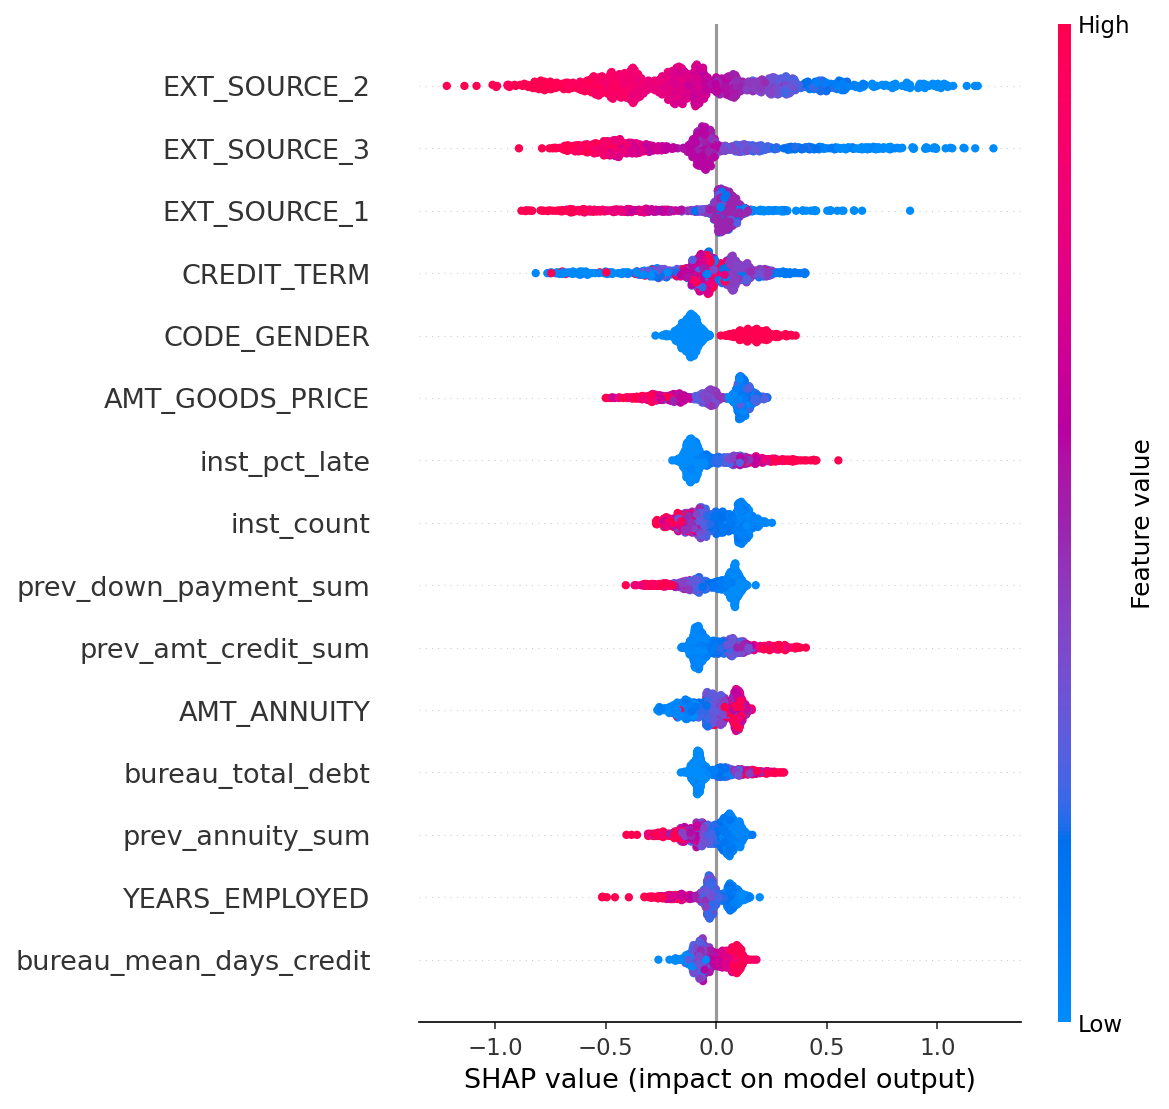
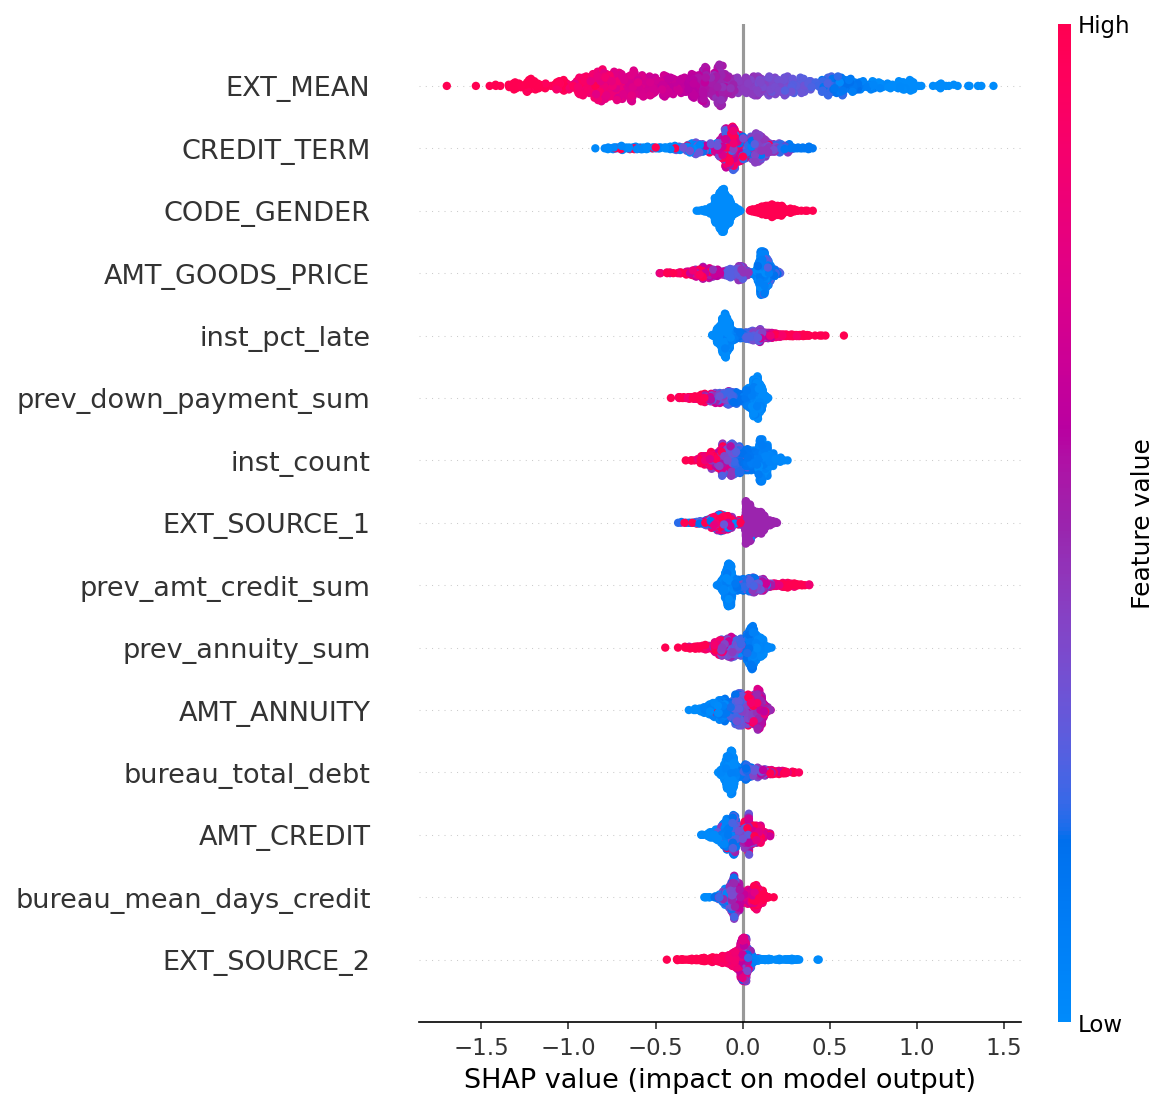
Update README.md to reflect changes in the project architecture, including the transition to a FastAPI scoring API and adjustments to the Streamlit dashboard. Revise model performance metrics and installation instructions for clarity. Remove CI workflow file as part of project simplification. Update

diff --git a/README.md b/README.md
@@ -4,7 +4,7 @@
 
 A production-style credit risk scoring system built on the [Kaggle Home Credit Default Risk](https://www.kaggle.com/competitions/home-credit-default-risk/data) dataset (~300,000 applicants). Three ML models are trained and compared head-to-head. A SHAP explainability layer shows exactly which factors drove each prediction. A business rules engine enforces hard policy caps on top of the model output — mirroring how real credit scoring systems work at lenders and bureaus.
 
-Results are exposed through an interactive Streamlit dashboard where you can adjust any applicant input and see the score, explanation, and any triggered policy rules update instantly.
+The model is served by a FastAPI scoring API. A Streamlit dashboard calls that API, so you can adjust any applicant input and see the score, explanation, and any triggered policy rules update instantly. GitHub Actions runs lint and 30 tests on every push.
 
 ---
 
@@ -14,11 +14,11 @@ Evaluated on a held-out 20% test set. Thresholds are tuned per model to maximise
 
 | Model | ROC-AUC | F1 | Precision | Recall |
 |---|---|---|---|---|
-| XGBoost | 0.7784 | 0.3333 | 0.2861 | 0.3992 |
-| Logistic Regression | 0.7573 | 0.3051 | 0.2324 | 0.4439 |
-| Random Forest | 0.7404 | 0.2915 | 0.2451 | 0.3595 |
+| XGBoost | 0.7789 | 0.3314 | 0.2774 | 0.4115 |
+| Logistic Regression | 0.7573 | 0.3052 | 0.2362 | 0.4312 |
+| Random Forest | 0.7434 | 0.2963 | 0.2203 | 0.4522 |
 
-ROC-AUC of 0.778 means the model correctly ranks a random defaulter as riskier than a random non-defaulter 77.8% of the time. Top Kaggle scores on this competition are ~0.80.
+ROC-AUC of 0.779 means the model correctly ranks a random defaulter as riskier than a random non-defaulter 77.9% of the time. Top Kaggle scores on this competition are ~0.80.
 
 ---
 
@@ -36,10 +36,12 @@ data/
                                     src/explain.py ──▶ outputs/shap_*.png
                                            │
                                            ▼
-                                        app.py ──▶ Streamlit dashboard
-                                   (model score +        (risk score,
-                                    guardrails layer +    SHAP waterfall,
-                                    SHAP waterfall)       policy alerts)
+                              api.py (FastAPI, POST /predict)
+                          model score + guardrails + top SHAP reasons
+                                           │  HTTP
+                                           ▼
+                              app.py (Streamlit dashboard)
+                        sidebar inputs, score, SHAP waterfall, policy alerts
 ```
 
 ---
@@ -51,11 +53,14 @@ data/
 | `src/data_prep.py` | Loads up to 5 CSV tables, joins on applicant ID, cleans anomalies, encodes categoricals, engineers ratio and interaction features, splits train/test |
 | `src/train.py` | Trains XGBoost, Random Forest, Logistic Regression; tunes decision thresholds; saves model files and metrics |
 | `src/explain.py` | Computes SHAP values on XGBoost; saves global summary and per-applicant waterfall charts |
-| `app.py` | Streamlit app — sidebar inputs → model score → guardrails layer → SHAP explanation + policy alerts |
-| `tests/` | Pytest unit tests for all modules using synthetic data (no real CSVs required) |
+| `src/score.py`, `src/applicant.py` | Turn API input into model features, score with XGBoost, apply guardrails, pick top SHAP reasons |
+| `src/guardrails.py` | Business rules engine (policy caps) |
+| `api.py` | FastAPI service — `GET /health`, `POST /predict` with input validation |
+| `app.py` | Streamlit dashboard — sidebar inputs → calls the API → score, SHAP waterfall, policy alerts |
+| `.github/workflows/ci.yml` | ruff and pytest on every push and pull request |
+| `tests/` | 30 pytest tests (data prep, training, guardrails, SHAP, API) using synthetic data |
 | `outputs/` | `metrics.csv`, `feature_cols.json`, SHAP charts |
-| `models/` | Serialised model files — excluded from git, regenerate with `python src/train.py` |
-| `docs/concepts.md` | Deep-dive reference covering every algorithm, metric, and design decision used |
+| `models/` | `xgboost.pkl` is committed (2.4MB, used by the API and its tests); RF and LR are excluded, regenerate with `python src/train.py` |
 
 ---
 
@@ -84,9 +89,10 @@ The UI shows the raw model score and the policy-adjusted score separately, with 
 
 ## Setup
 
-**1. Install dependencies**
+**1. Install dependencies** (Python 3.13)
 ```bash
-pip install -r requirements.txt
+python3.13 -m venv .venv
+.venv/bin/pip install -r requirements.txt
 ```
 
 **2. Download data from Kaggle**
@@ -108,11 +114,12 @@ python src/train.py
 python src/explain.py
 ```
 
-**5. Launch the dashboard**
+**5. Start the API, then the dashboard** (two terminals)
 ```bash
-streamlit run app.py
+.venv/bin/uvicorn api:app --reload
+.venv/bin/streamlit run app.py
 ```
-Opens at `http://localhost:8501`.
+API at `http://localhost:8000`, dashboard at `http://localhost:8501`.
 
 **6. Run tests**
 ```bash
@@ -123,7 +130,8 @@ python -m pytest tests/ -v
 
 ## Key Design Decisions
 
-- **Train/serve consistency** — `app.py` runs the exact same `encode_categoricals` and `engineer_features` functions used at training time. `feature_cols.json` ensures column order never drifts.
+- **Single scoring path** — only the API loads the model; the dashboard is just a client.
+- **Train/serve consistency** — the API runs the exact same `encode_categoricals` and `engineer_features` functions used at training time. `feature_cols.json` ensures column order never drifts.
 - **Class imbalance** — 8% default rate handled with `scale_pos_weight` (XGBoost), `class_weight='balanced'` (RF, LR), and stratified splitting — not SMOTE.
 - **Threshold tuning** — each model's decision threshold is tuned to maximise F1 rather than using the default 0.5, which is meaningless for imbalanced data.
 - **Interaction features** — `EXT_MEAN × ANNUITY_INCOME_RATIO` and `DEBT_STRESS` were added after discovering the base model scored a borrower with 267% debt-to-income as Low Risk purely because external scores were high.
